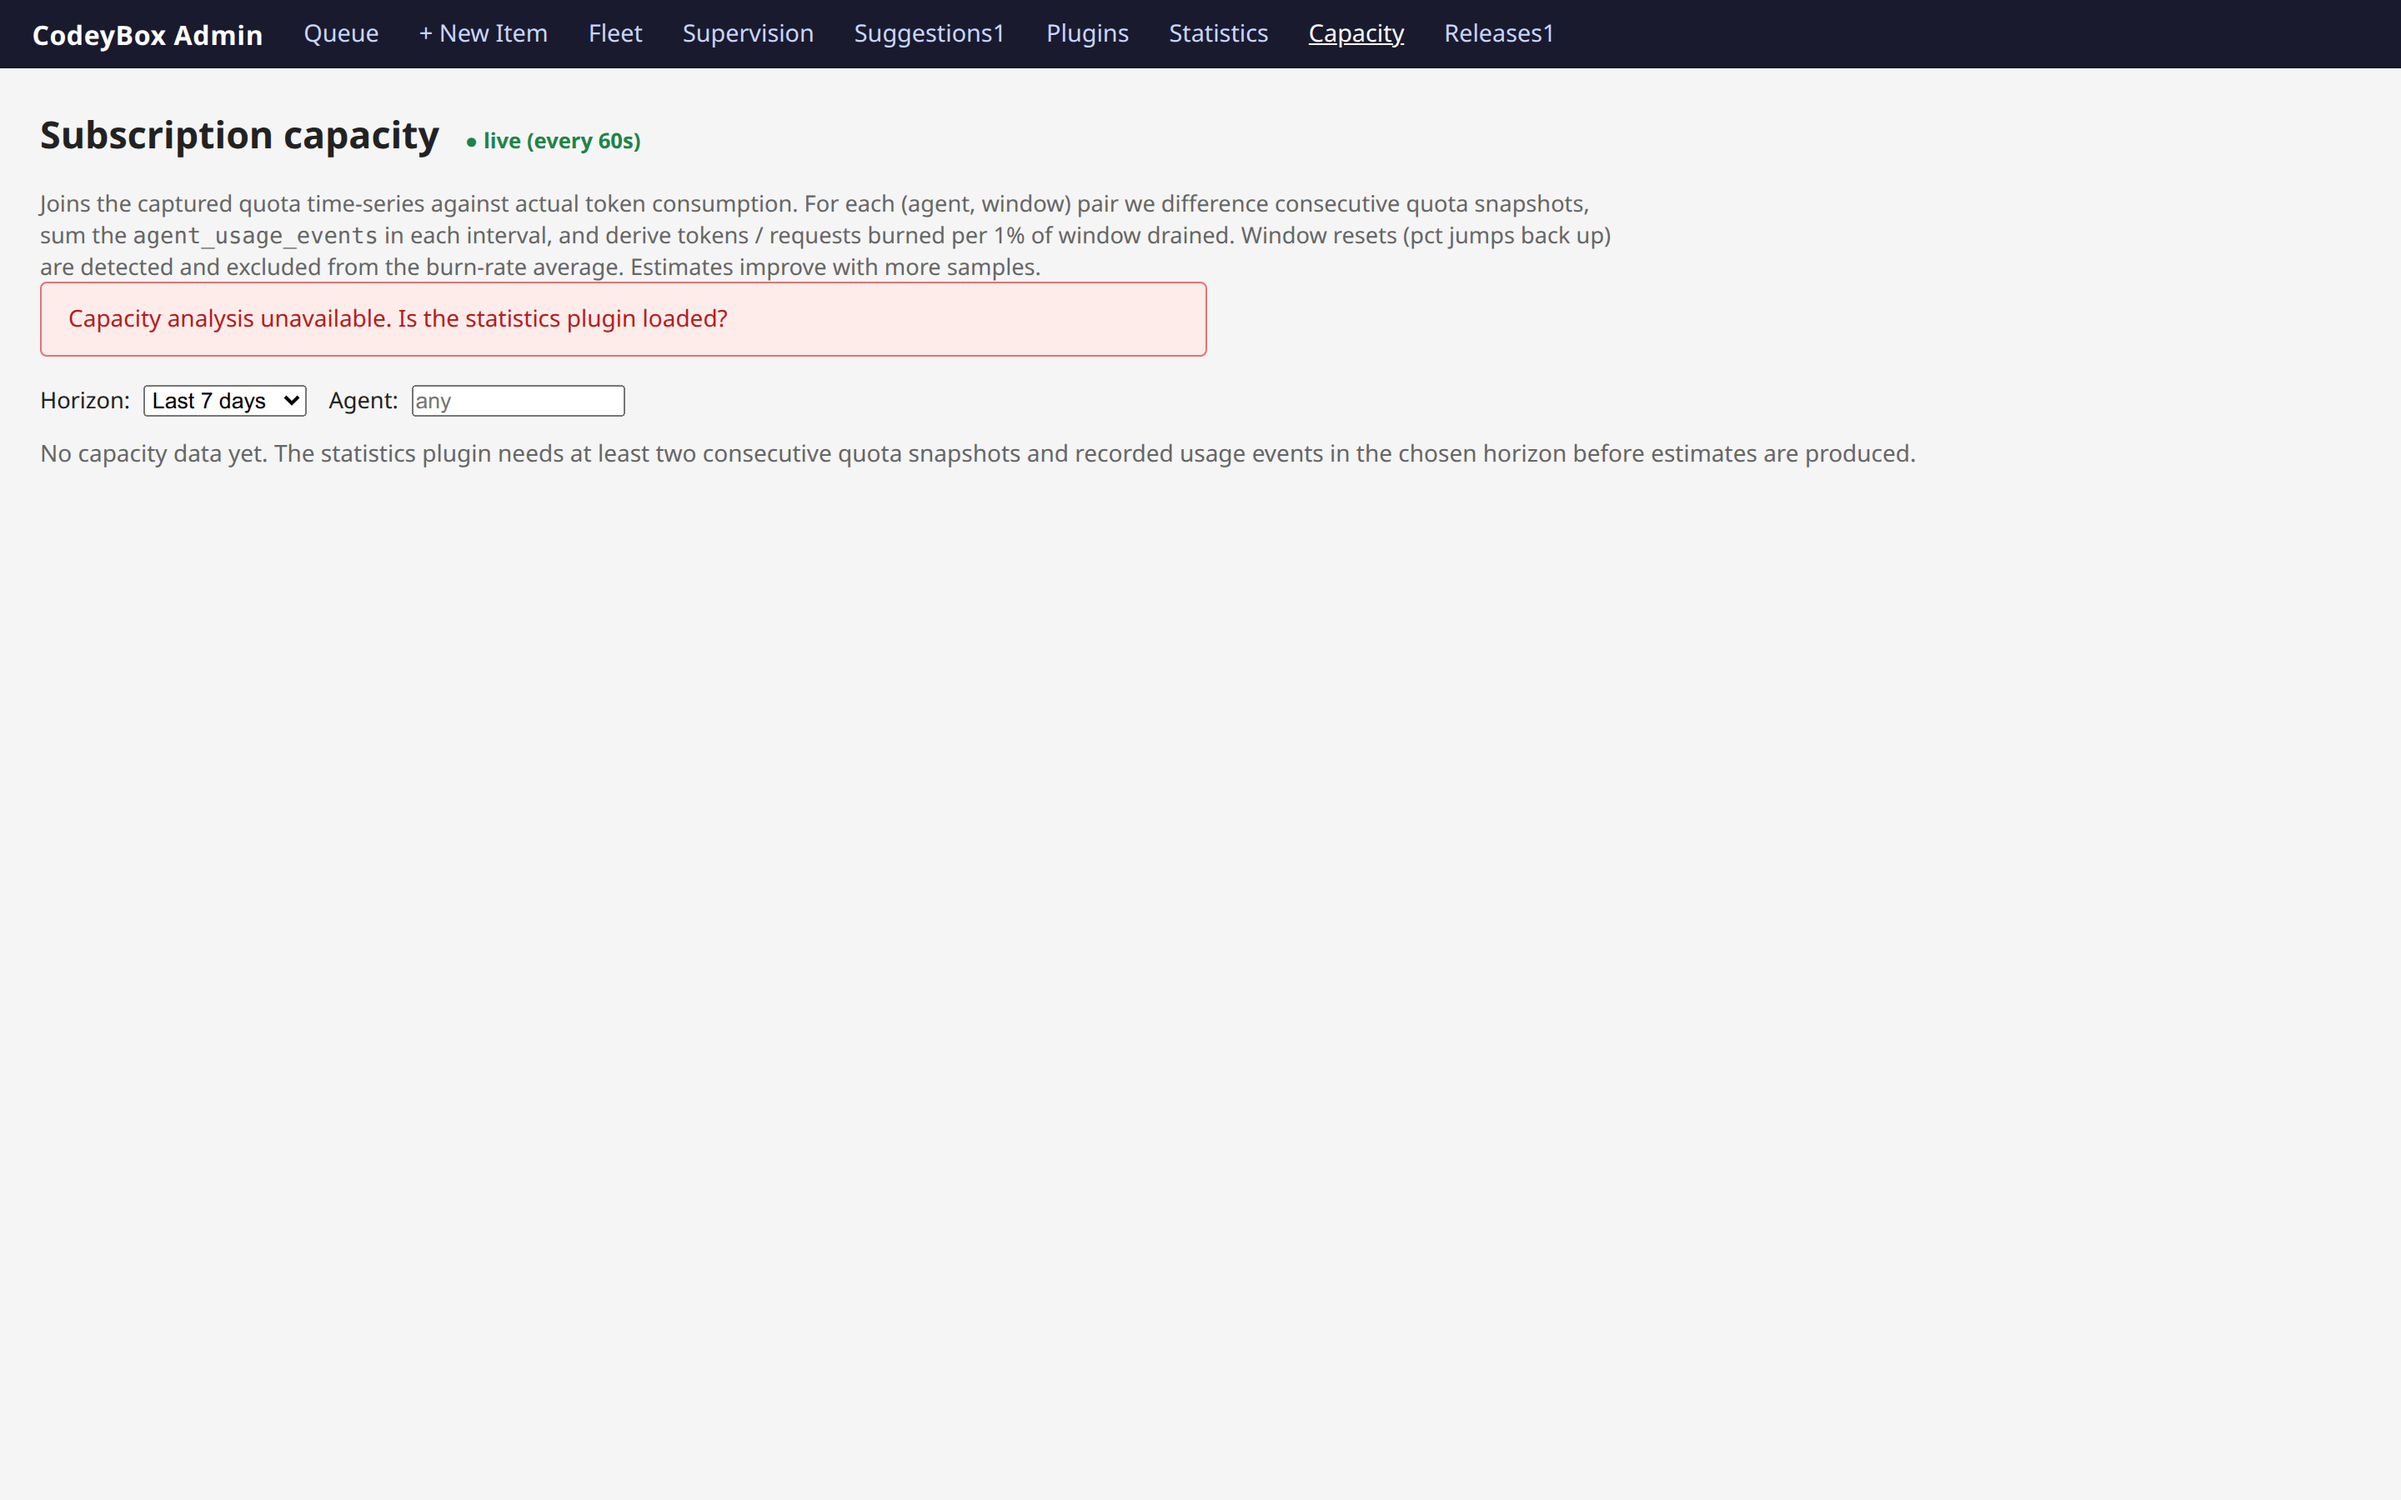
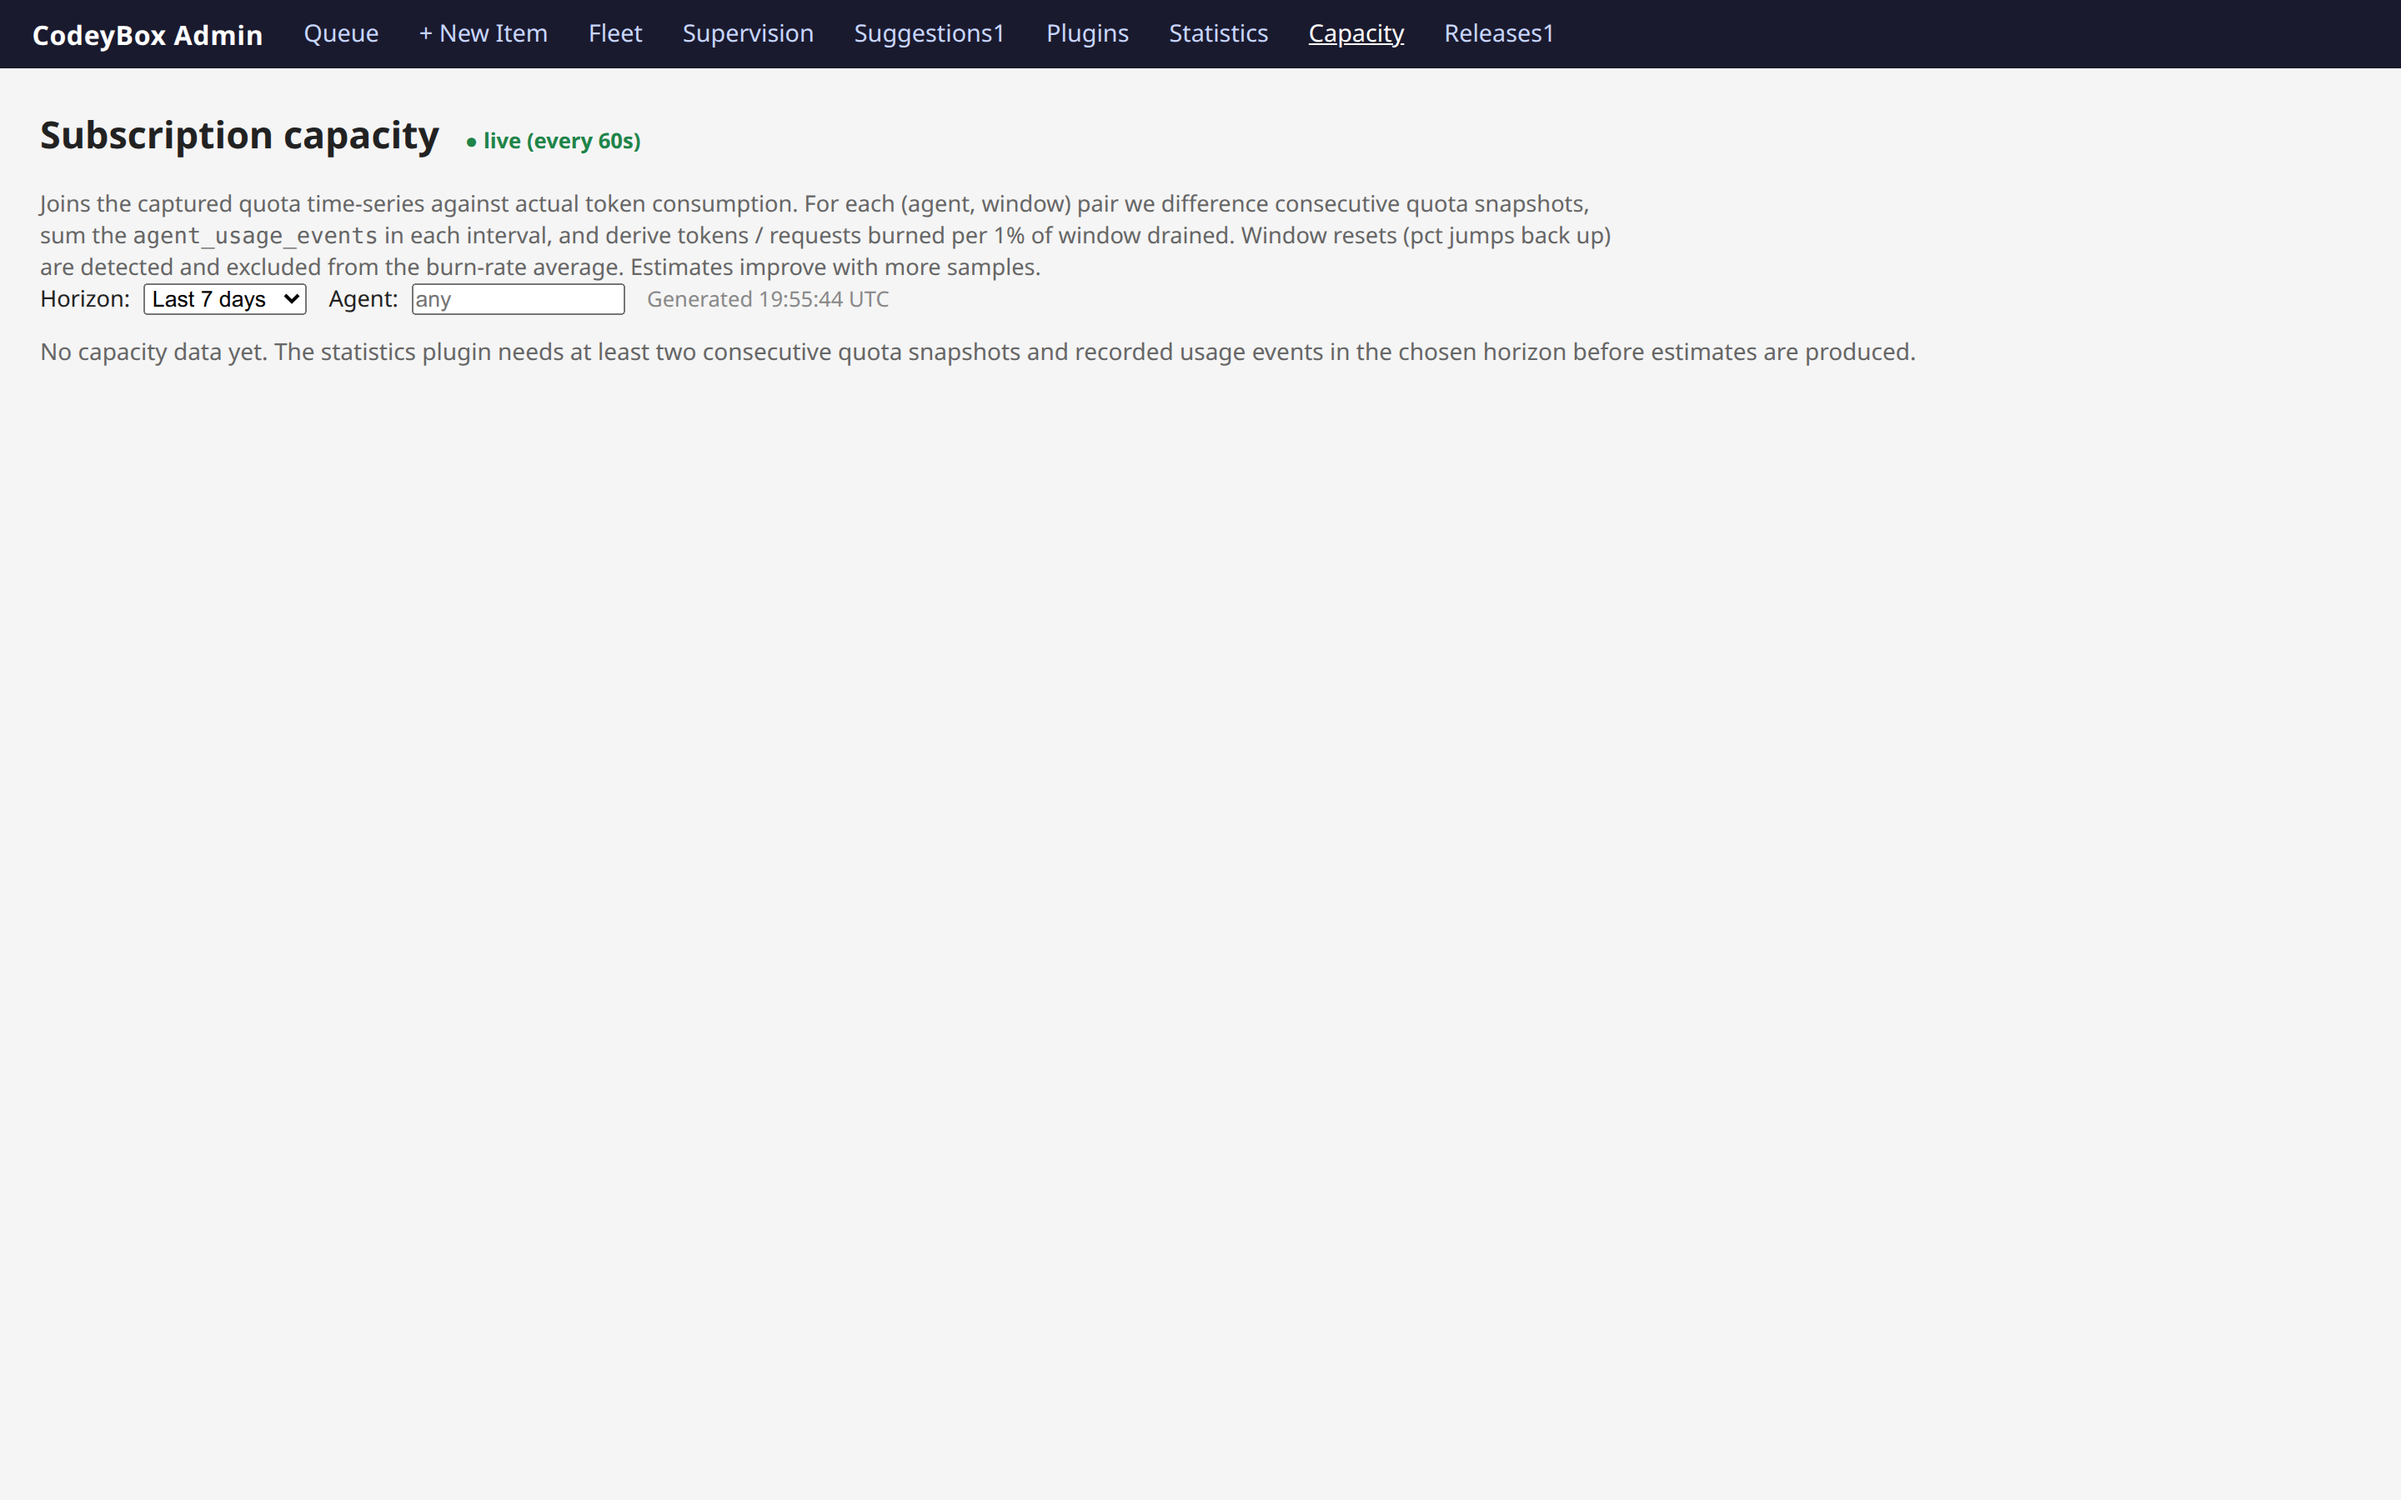
Screenshots: stop advertising error and warning states
Three of the five images in the README were showing failures, and the check
that was supposed to catch that did not.

Capacity showed 'Capacity analysis unavailable. Is the statistics plugin
loaded?' — the seeded instance never loaded the plugin. It does now, and the
page renders its real content. The work-item detail page carried an
'item-stale: UpdatedAt frozen for 9000s' banner. Fleet carries a permanent
notice that per-project pause falls back to global because the budget-alerts
work item is unimplemented; that one is accurate and affects every user, but a
release README should not showcase a page whose most prominent element says a
feature is missing, so it is no longer committed.

The original check scanned each page's body text for error words. A banner
element can carry a failure without any of those words appearing in prose,
which is exactly how all three got through. tools/screenshots/scan.mjs now
inspects alert, warning, error and danger elements and red or amber text, and
is committed alongside the capture script so the next person does not have to
rediscover that body text is not enough.

Statistics stays excluded: it fails even with the plugin loaded, because it
needs real quota and usage history that seeded data does not have.

The README table now shows item detail, capacity, releases and plugins. The
image-reference guard added with the screenshots caught the Spanish README
still pointing at the removed fleet image, which is what it was for.
[…]

Changed region(s): [[0.0, 0.1867, 0.7812, 0.3111]]

diff --git a/tools/screenshots/README.md b/tools/screenshots/README.md
@@ -35,7 +35,27 @@ Capture at `1440x900`, `deviceScaleFactor: 2`.
 
 ## What is committed
 
-Only pages that render real content are committed. Two are deliberately
-excluded: **Statistics** errors in a seeded instance because the statistics
-plugin is not loaded, and **Supervision** renders essentially empty with no
-live workers. Shipping either would advertise a broken or blank screen.
+Only pages that render real content and no error or warning state are
+committed. `scan.mjs` checks each page for alert/warning/error elements and
+red or amber text — checking body text for error *words* is not enough, because
+a banner element can carry the failure without the word appearing in prose.
+
+Three pages are deliberately excluded:
+
+- **Statistics** fails to load in a seeded instance even with the statistics
+  plugin enabled — it needs real quota and usage history, which seeded data
+  does not have.
+- **Supervision** renders essentially empty with no live workers.
+- **Fleet** carries a permanent banner: *"Per-project pause requires the
+  budget-alerts work item; falling back to global queue pause."* That is
+  accurate — the feature is unimplemented, and every user sees it — but the
+  README should not showcase a page whose most prominent element says a
+  feature is missing. The screenshot is not committed.
+
+The seeded instance must load the statistics plugin, or **Capacity** renders
+"Capacity analysis unavailable. Is the statistics plugin loaded?":
+
+```
+CodeyBox__Plugins__AssemblyPaths__0=<repo>/plugins/CodeyBox.StatisticsPlugin/bin/Release/net10.0/CodeyBox.StatisticsPlugin.dll
+CodeyBox__Plugins__Allowlist__0=codeybox.statistics
+```

diff --git a/README.md b/README.md
@@ -30,11 +30,11 @@ audit reports, timings, costs and diff, and watch agent output live.
 <table>
 <tr>
 <td width="50%"><img src="screenshots/10-work-item-detail.png" alt="A single work item"><br><sub><b>One item, end to end</b> — state, branches, and tabs for its timeline, audit reports, timings, costs and diff.</sub></td>
-<td width="50%"><img src="screenshots/02-fleet.png" alt="Fleet view"><br><sub><b>Fleet</b> — per-project status, current phase, queued and in-flight counts, the last five outcomes, and spend.</sub></td>
+<td width="50%"><img src="screenshots/05-capacity.png" alt="Subscription capacity"><br><sub><b>Capacity</b> — quota snapshots joined against real token consumption, to estimate what each 1% of a window buys.</sub></td>
 </tr>
 <tr>
-<td><img src="screenshots/05-capacity.png" alt="Capacity"><br><sub><b>Capacity</b> — where the worker slots are going and what is waiting on them.</sub></td>
-<td><img src="screenshots/06-releases.png" alt="Releases"><br><sub><b>Releases</b> — batch changes into a release branch and track it to landing.</sub></td>
+<td><img src="screenshots/06-releases.png" alt="Releases"><br><sub><b>Releases</b> — batch changes onto a release branch and track it to landing.</sub></td>
+<td><img src="screenshots/08-plugins.png" alt="Plugins"><br><sub><b>Plugins</b> — what is loaded, from where, and what each one contributes.</sub></td>
 </tr>
 </table>
 

diff --git a/README.es-ES.md b/README.es-ES.md
@@ -34,11 +34,11 @@ y diff, y observa en vivo la salida del agente.
 <table>
 <tr>
 <td width="50%"><img src="screenshots/10-work-item-detail.png" alt="Un único elemento de trabajo"><br><sub><b>Un elemento, de principio a fin</b> — estado, ramas y pestañas para su cronología, informes de auditoría, tiempos, costos y diff.</sub></td>
-<td width="50%"><img src="screenshots/02-fleet.png" alt="Vista de la flota"><br><sub><b>Flota</b> — estado por proyecto, fase actual, recuentos en cola y en curso, los últimos cinco resultados y el gasto.</sub></td>
+<td width="50%"><img src="screenshots/05-capacity.png" alt="Capacidad de la suscripción"><br><sub><b>Capacidad</b> — cruza las instantáneas de cuota con el consumo real de tokens, para estimar qué compra cada 1 % de una ventana.</sub></td>
 </tr>
 <tr>
-<td><img src="screenshots/05-capacity.png" alt="Capacidad"><br><sub><b>Capacidad</b> — a dónde van las ranuras de trabajadores y qué está esperándolas.</sub></td>
 <td><img src="screenshots/06-releases.png" alt="Releases"><br><sub><b>Releases</b> — agrupa cambios en una rama de versión y haz su seguimiento hasta que se apliquen.</sub></td>
+<td><img src="screenshots/08-plugins.png" alt="Plugins"><br><sub><b>Plugins</b> — qué está cargado, desde dónde y con qué contribuye cada uno.</sub></td>
 </tr>
 </table>
 
